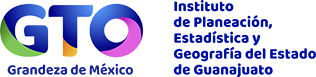
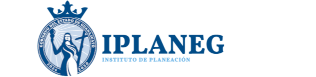
Se ajusta imagen a nueva identidad gráfica sep 24.

diff --git a/application/views/templates/header.php b/application/views/templates/header.php
@@ -3,7 +3,7 @@
     <head>
         <meta charset="utf-8">
         <meta name="viewport" content="width=device-width, initial-scale=1, shrink-to-fit=no">
-        <link rel="icon" href="<?php echo base_url('img/favicon.ico'); ?>" sizes="16x16" type="image/png" />
+        <link rel="icon" href="<?=base_url()?>img/favicon.png" sizes="16x16" type="image/png" />
 
         <title>Sistema Hecra Iplaneg — Sistema Estatal de Información Estadística y Geográfica</title>
 

diff --git a/application/views/inicio/login.php b/application/views/inicio/login.php
@@ -3,7 +3,7 @@
     <head>
         <meta charset="utf-8">
         <meta name="viewport" content="width=device-width, initial-scale=1, shrink-to-fit=no">
-        <link rel="icon" href="<?php echo base_url('img/favicon.ico'); ?>" sizes="16x16" type="image/png" />
+        <link rel="icon" href="<?=base_url()?>img/favicon.png" sizes="16x16" type="image/png" />
 
         <title>Sistema Hecra Iplaneg</title>
 

diff --git a/application/config/development/config.php b/application/config/development/config.php
@@ -23,7 +23,7 @@ defined('BASEPATH') OR exit('No direct script access allowed');
 | a PHP script and you can easily do that on your own.
 |
 */
-$config['base_url'] = 'http://devhecra.guanajuato.gob.mx/';
+$config['base_url'] = 'http://newapp.test/';
 
 /*
 |--------------------------------------------------------------------------
